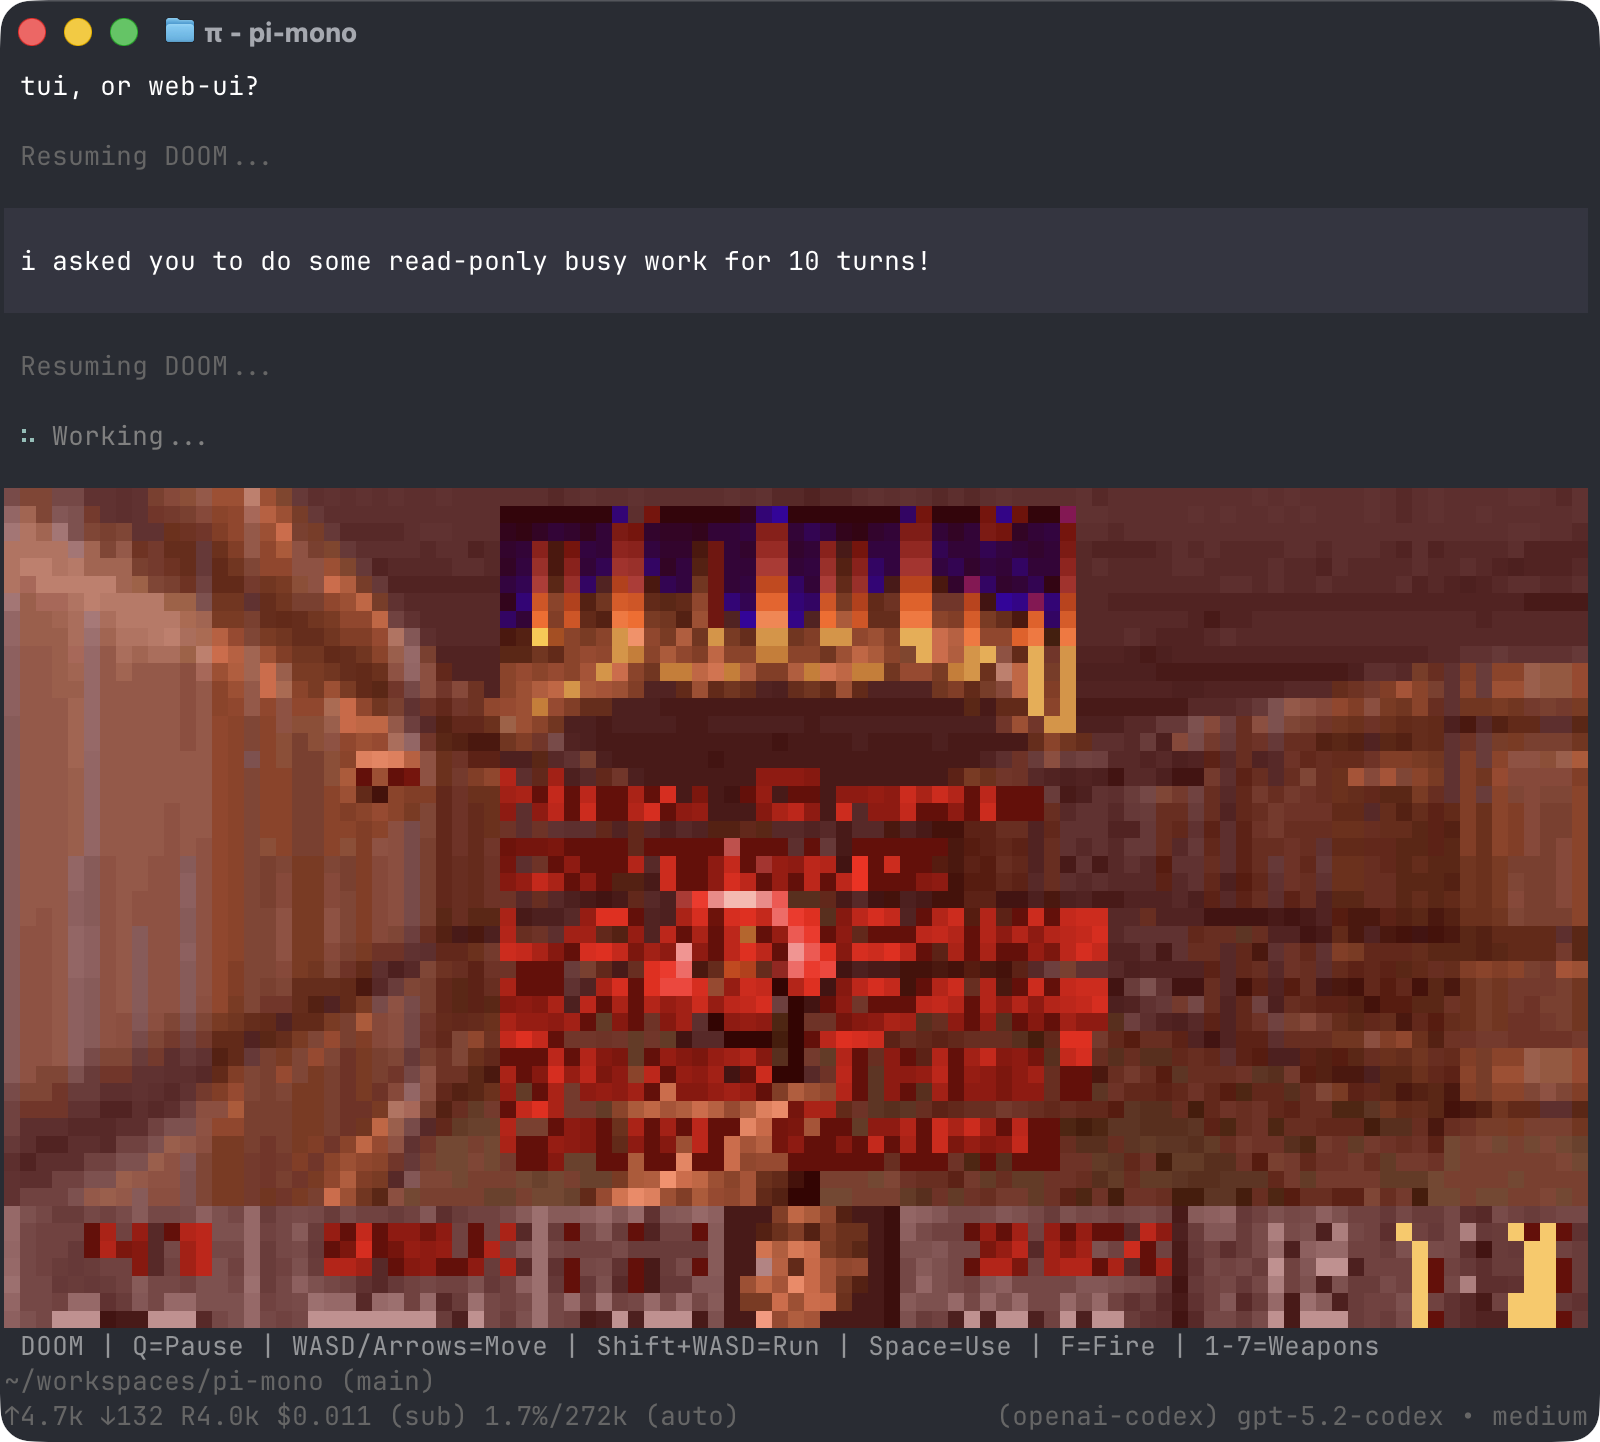
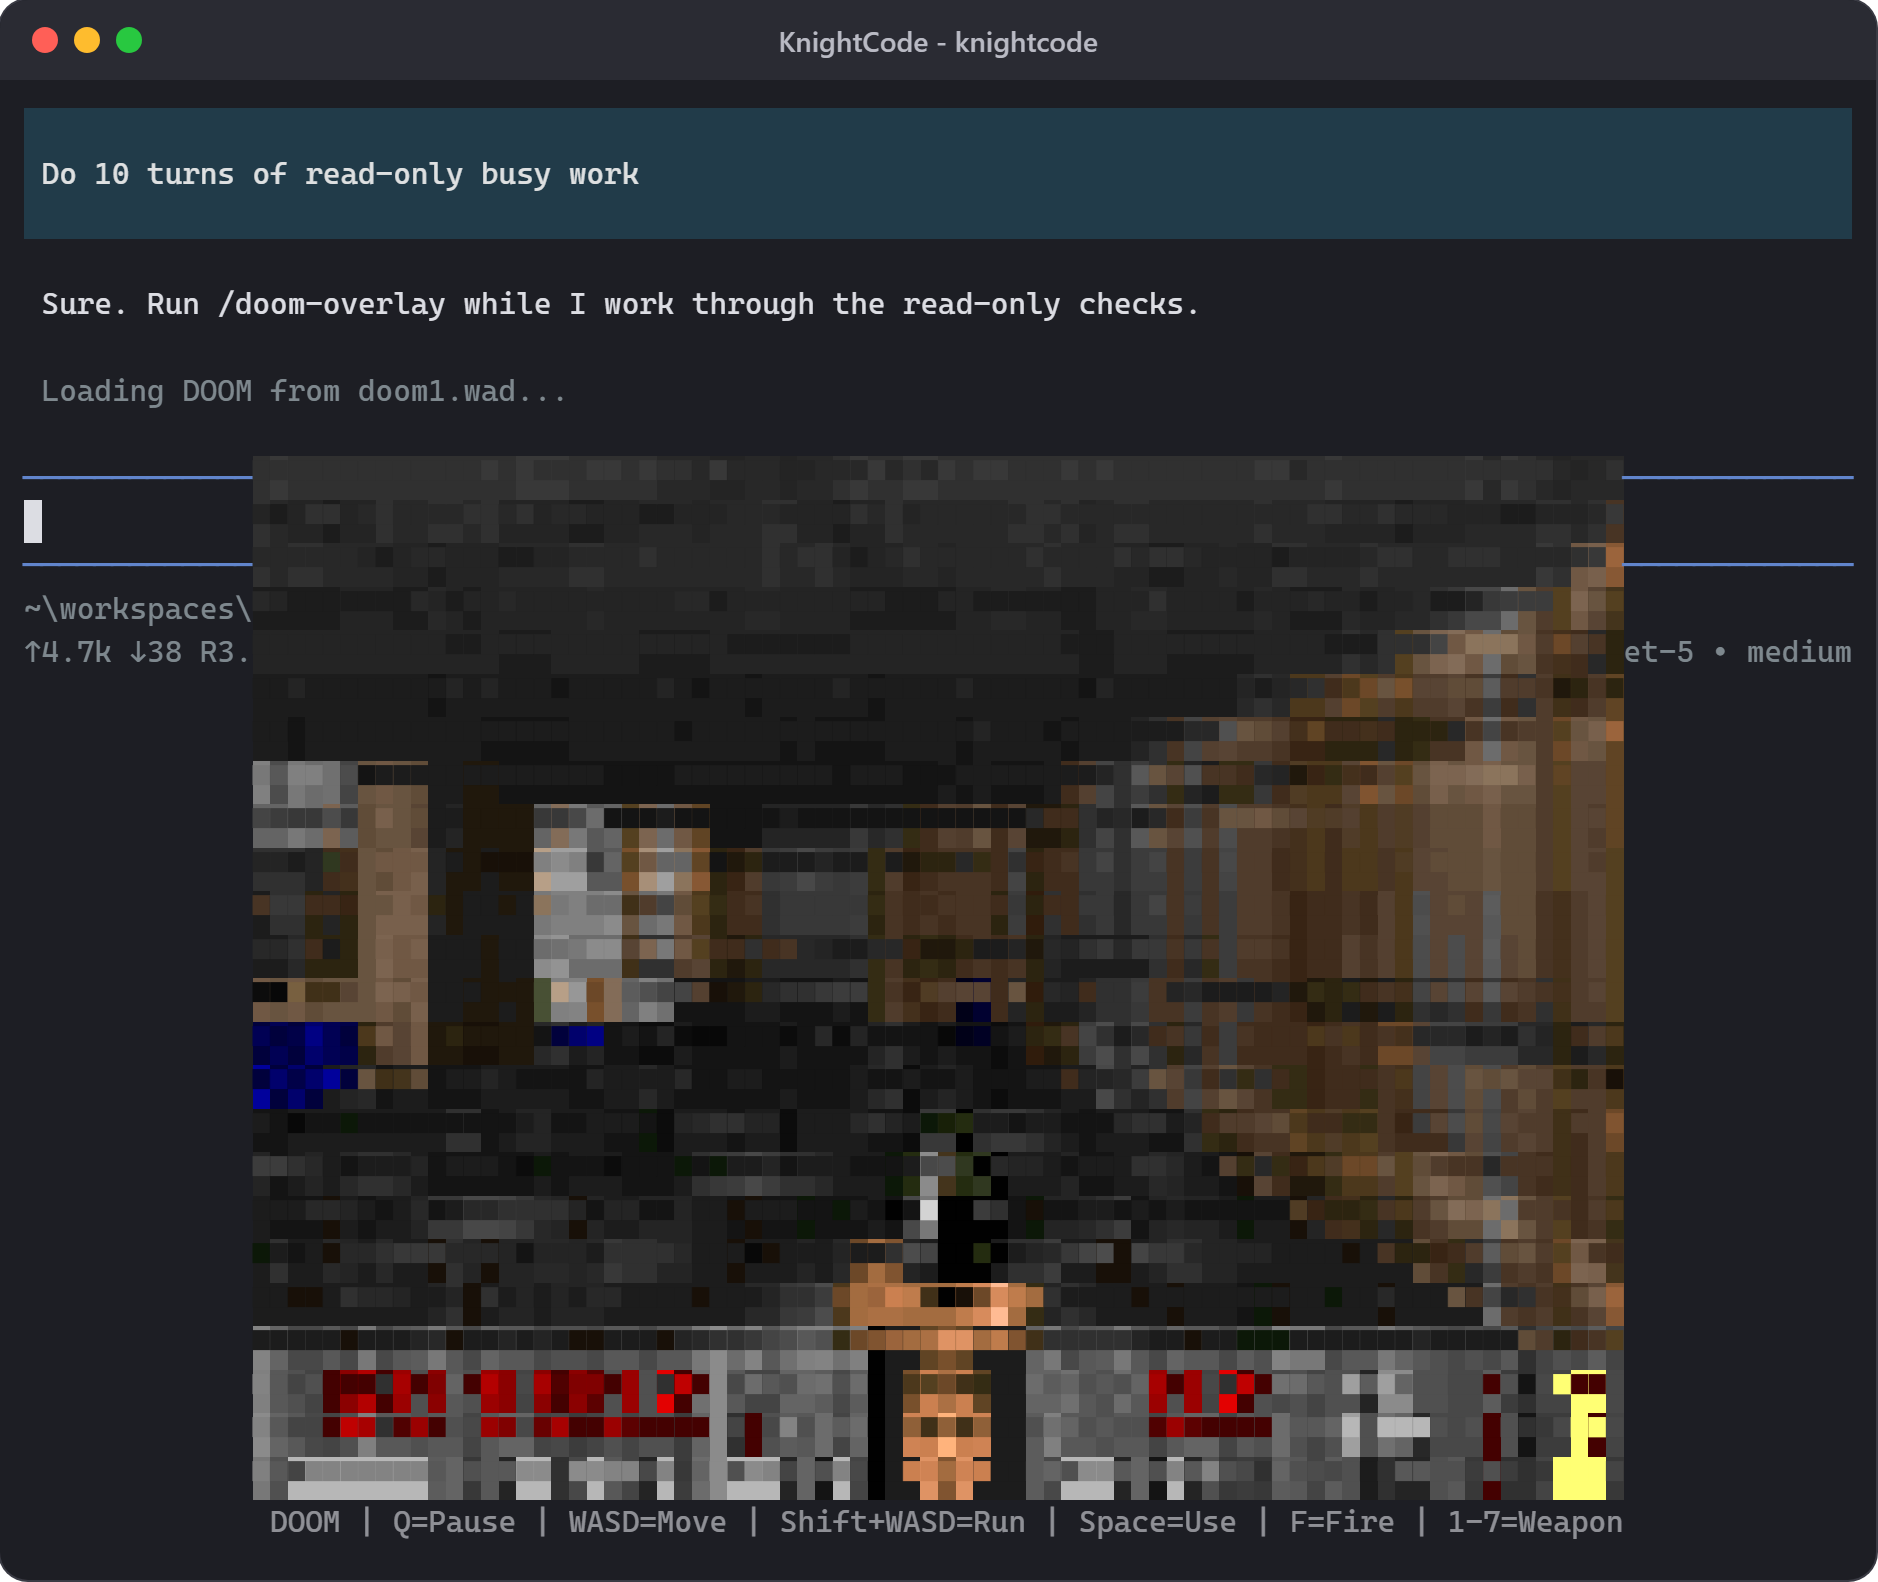
docs(cli): show KnightCode in the documentation screenshots
Replace the pi captures of the interactive UI, the session tree, and the DOOM
overlay with captures of KnightCode itself, and embed the tree and DOOM images
in the sessions and extensions guides, which no longer referenced them.

diff --git a/packages/cli/docs/extensions.md b/packages/cli/docs/extensions.md
@@ -194,7 +194,10 @@ Use `ctx.ui.custom()` only when the interaction needs its own rendering and inpu
 See [Terminal UI](tui.md) for component, focus, overlay, theme, and performance guidance.
 
 Extensions load in interactive, RPC, JSON, and print modes.
-Interactive mode provides the complete terminal UI.
+Interactive mode provides the complete terminal UI. The [DOOM overlay example](../examples/extensions/doom-overlay/) uses a custom overlay component to render a game frame by frame:
+
+<p align="center"><img src="images/doom-extension.png" alt="The DOOM overlay example running over a KnightCode session" width="750"></p>
+
 RPC can forward supported dialogs and notifications through the [RPC Extension UI protocol](rpc-extension-ui.md), but not custom terminal components; JSON and print modes have no UI.
 Guard terminal-only behavior with `ctx.mode === "tui"` and use `ctx.hasUI` for interactions supported by interactive and RPC clients.
 

diff --git a/packages/cli/docs/sessions.md b/packages/cli/docs/sessions.md
@@ -30,6 +30,8 @@ KnightCode stores entries as a tree, so returning to an earlier point does not e
 
 In `/tree`, select a user message to put its text back in the editor. Edit and submit it to create another branch. Selecting an assistant response or another entry continues after that entry with an empty editor.
 
+<p align="center"><img src="images/tree-view.png" alt="The /tree view showing a session with two branches, user messages, assistant replies, and tool calls" width="750"></p>
+
 Selecting a point while the model is responding cancels that response. Navigation cannot proceed while compaction or another tree navigation is still running; wait for it to finish and retry.
 
 When you leave a branch, KnightCode can summarize it and attach that summary to the branch you enter. This preserves relevant work from the abandoned path without including every message from it.
